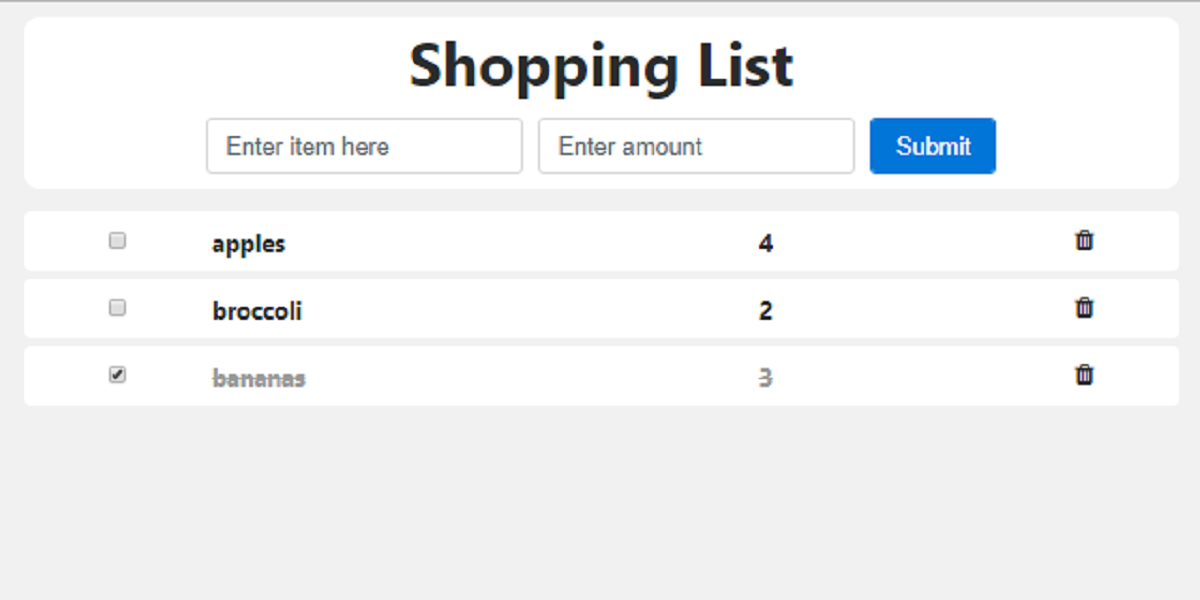
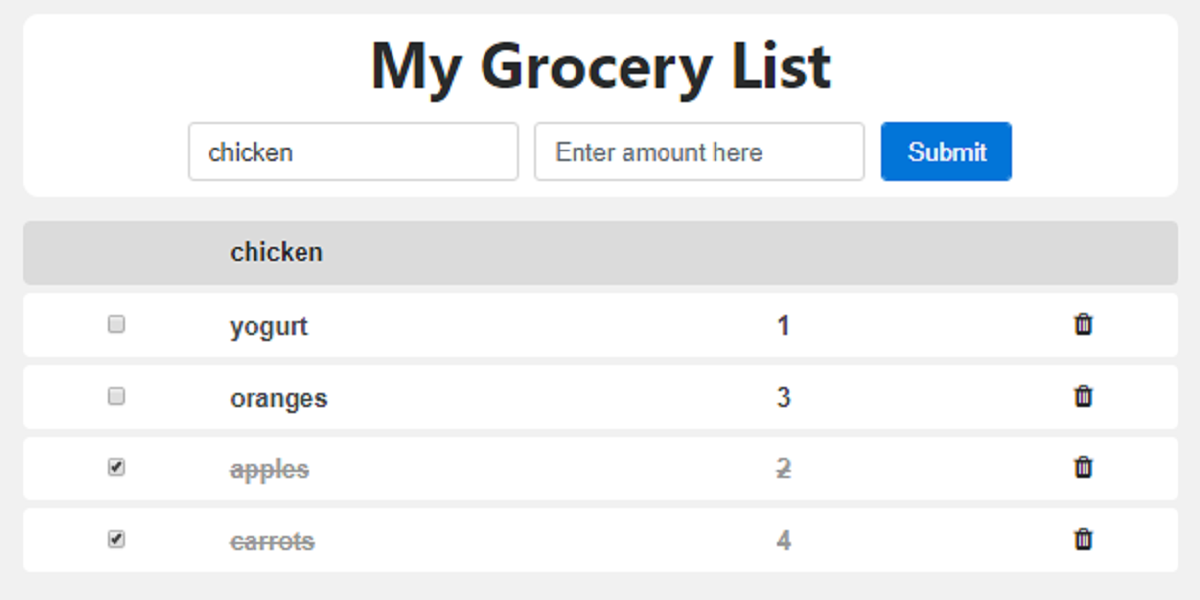
change grocery list to prevent duplicate entry

diff --git a/controllers/groceryList.js b/controllers/groceryList.js
@@ -2,20 +2,36 @@ angular.module('personalSite')
 
 .controller("GroceryListCtrl", function($scope) {
 
-	$scope.groceryList = []
+	$scope.groceryList = [];
+
+	$scope.duplicate = false;
 	
 	$scope.temp = {"name":null, "amount":null};
 
+	var items = {};
+
 	$scope.addItem =function(name, amount) {
 		console.log(name, amount)
-		var item = {}
-		var amount = (amount) ? amount : 1;
-		item.name = name;
-		item.amount = amount;
-		item.complete = false;
-		$scope.groceryList.unshift(item)
-		$scope.temp.name = null;
-		$scope.temp.amount = null;
+
+		var itemName = name.toLowerCase();
+
+		if (!(itemName in items)) {
+			var item = {}
+			var amount = (amount) ? amount : 1;
+			item.name = name;
+			item.amount = amount;
+			item.complete = false;
+			$scope.groceryList.unshift(item)
+			$scope.temp.name = null;
+			$scope.temp.amount = null;
+			items[itemName] = true;
+		} else {
+			$scope.duplicate = true;
+		}
+	}
+
+	$scope.removeWarning = function() {
+		$scope.duplicate = false;
 	}
 
 	$scope.check = function(elem) {

diff --git a/views/groceryList.html b/views/groceryList.html
@@ -7,6 +7,14 @@
 			<input class="grocery-form-item form-control" ng-model="temp.amount" placeholder="Enter amount here" value="1" type="number">
 			<input ng-disabled="!temp.name" class="form-control btn btn-primary" type="submit" value="Submit">
 		</form>
+
+		<div ng-show="duplicate" id="grocery-warning" class="alrt alert-danger">
+			<div class="grocery-placeholder"></div>
+			Whoops, you already added that item!
+			<i id="grocery-warning-remove" class="fa fa-trash" ng-click="removeWarning()"></i>
+
+		</div>
+
 		<ul id="grocery-list">
 			<li ng-show="temp.name || temp.amount">
 				<div class="grocery-item" id="grocery-temp">

diff --git a/styles/groceryList.css b/styles/groceryList.css
@@ -25,6 +25,19 @@
 	margin-right: 10px;
 }
 
+#grocery-warning {
+	display: flex;
+	justify-content: space-between;
+	align-items: center;
+	border-radius: 10px;
+	height: 40px;
+	padding: 0 15px 0 15px;
+}
+
+#grocery-warning-remove {
+	cursor: pointer;
+}
+
 #grocery-list {
 	list-style: none;
 	padding: 0;
